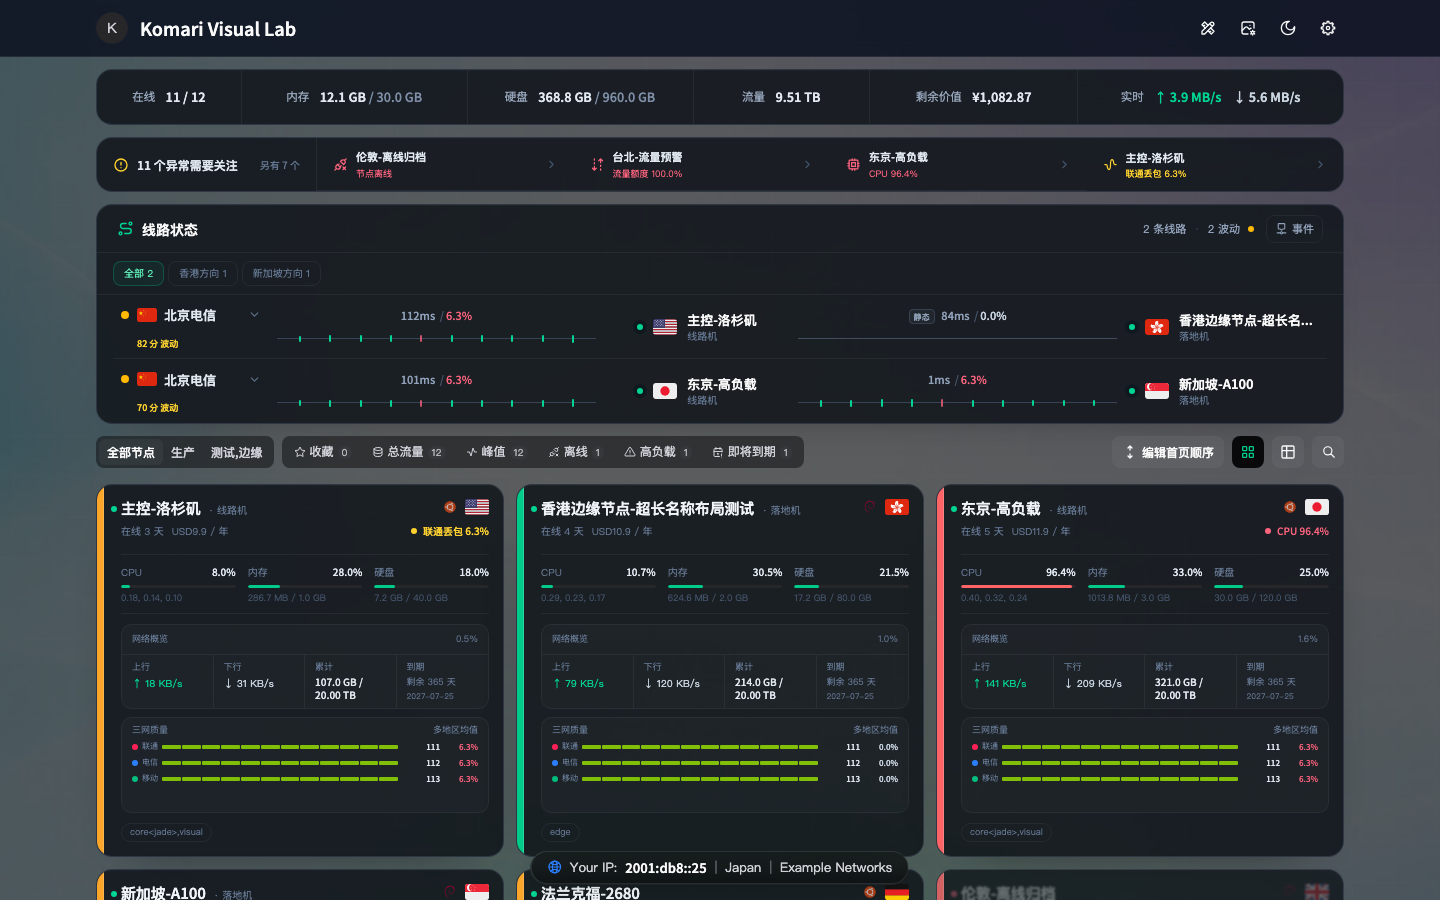
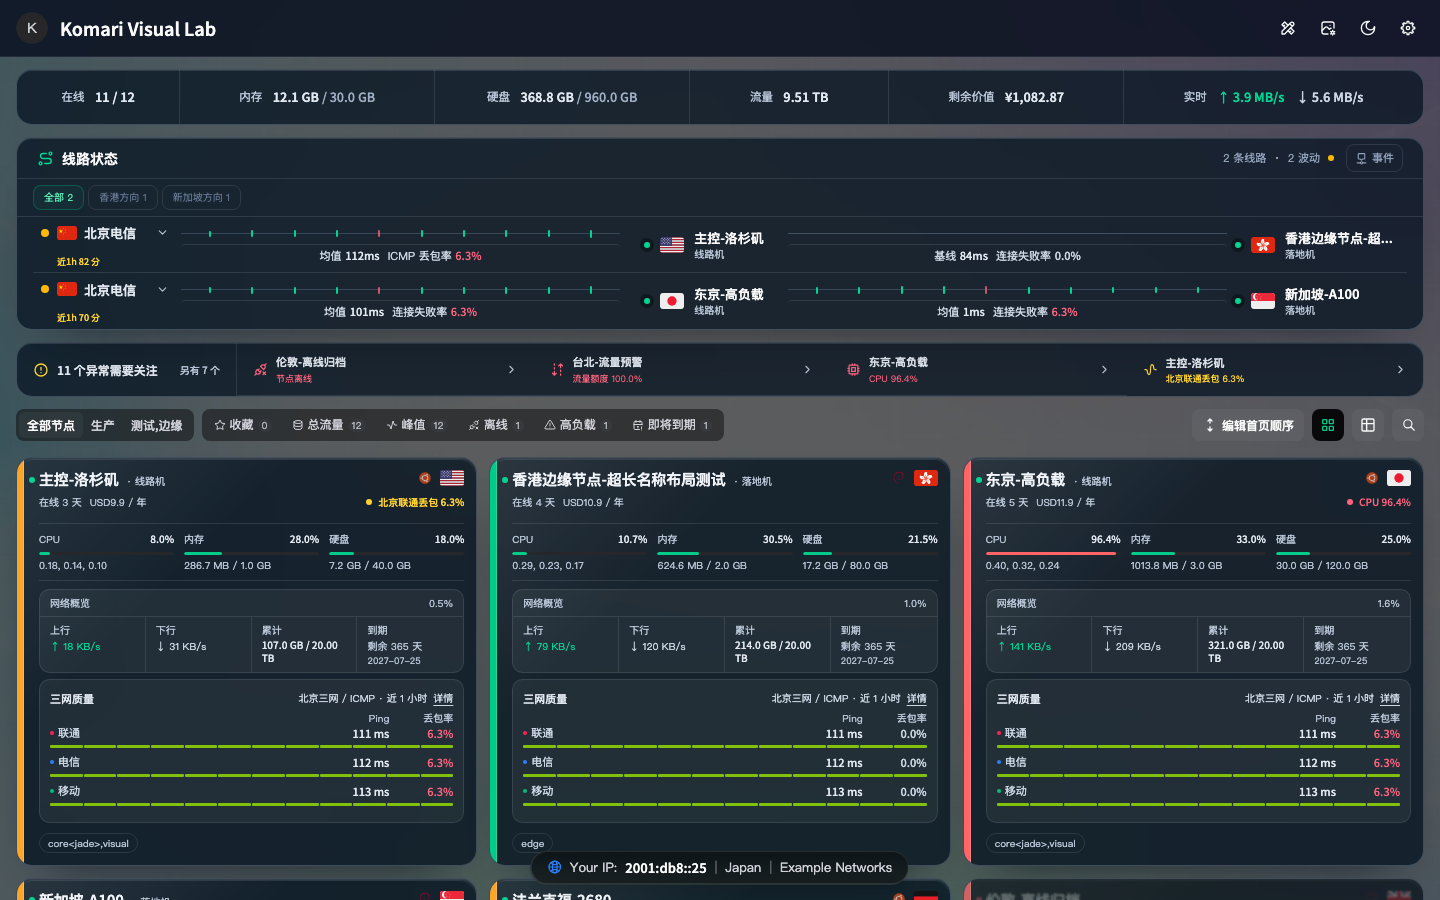
docs: refresh README for v1.4.4

diff --git a/tests/visual/visual.spec.ts b/tests/visual/visual.spec.ts
@@ -1985,22 +1985,22 @@ test('Transit documentation screenshots', async ({ browser }) => {
 
   await capture(
     { width: 1440, height: 900 },
-    { opsDashboard: true, dark: true },
+    { opsDashboard: true, dark: true, carrierPingRegion: 'beijing', carrierProbeType: 'icmp' },
     page => page.screenshot({ path: 'docs/screenshots/transit-overview-dark.png' }),
   )
   await capture(
     { width: 1440, height: 900 },
-    { opsDashboard: true },
+    { opsDashboard: true, carrierPingRegion: 'beijing', carrierProbeType: 'icmp' },
     page => page.screenshot({ path: 'docs/screenshots/transit-overview-light.png' }),
   )
   await capture(
     { width: 1280, height: 720 },
-    { opsDashboard: true, dark: true },
+    { opsDashboard: true, dark: true, carrierPingRegion: 'beijing', carrierProbeType: 'icmp' },
     page => page.screenshot({ path: 'docs/preview.png' }),
   )
   await capture(
     { width: 1440, height: 900 },
-    { opsDashboard: true, dark: true, authenticated: true },
+    { opsDashboard: true, dark: true, authenticated: true, carrierPingRegion: 'beijing', carrierProbeType: 'icmp' },
     async (page) => {
       const dialog = await openTopologyManager(page)
       return dialog.screenshot({ path: 'docs/screenshots/transit-topology-manager.png' })

diff --git a/tests/visual/fixtures/komari.ts b/tests/visual/fixtures/komari.ts
@@ -109,6 +109,8 @@ export interface VisualFixtureOptions {
   carrierRecentOutcome?: 'healthy' | 'failed' | 'stale' | 'insufficient'
   /** 三网卡片数据协议；默认保留 TCP，用于覆盖迁移前场景。 */
   carrierProbeType?: 'icmp' | 'tcp'
+  /** 文档截图可覆盖地区；普通回归继续使用覆盖面更广的 all。 */
+  carrierPingRegion?: 'beijing' | 'shanghai' | 'guangdong' | 'all'
   preserveOperationJournal?: boolean
   routeProbeStorageDegraded?: boolean
   /** 拒绝回程结果的主题设置保存，验证保存失败时不会清理旧标签。 */
@@ -981,7 +983,7 @@ export async function installKomariFixture(page: Page, options: VisualFixtureOpt
     opsDashboardEnabled: options.opsDashboard ?? false,
     topologyEnabled: options.opsDashboard ?? false,
     topologyAutoRepairEnabled: options.topologyAutoRepairEnabled ?? true,
-    carrierPingRegion: 'all',
+    carrierPingRegion: options.carrierPingRegion ?? 'all',
     routeProbeEnabled: options.routeProbeEnabled,
     routeProbeAutoEnabled: options.routeProbeLegacyAutoEnabled,
     nodeCardPanels: options.nodeCardPanels ? JSON.stringify(options.nodeCardPanels) : undefined,
